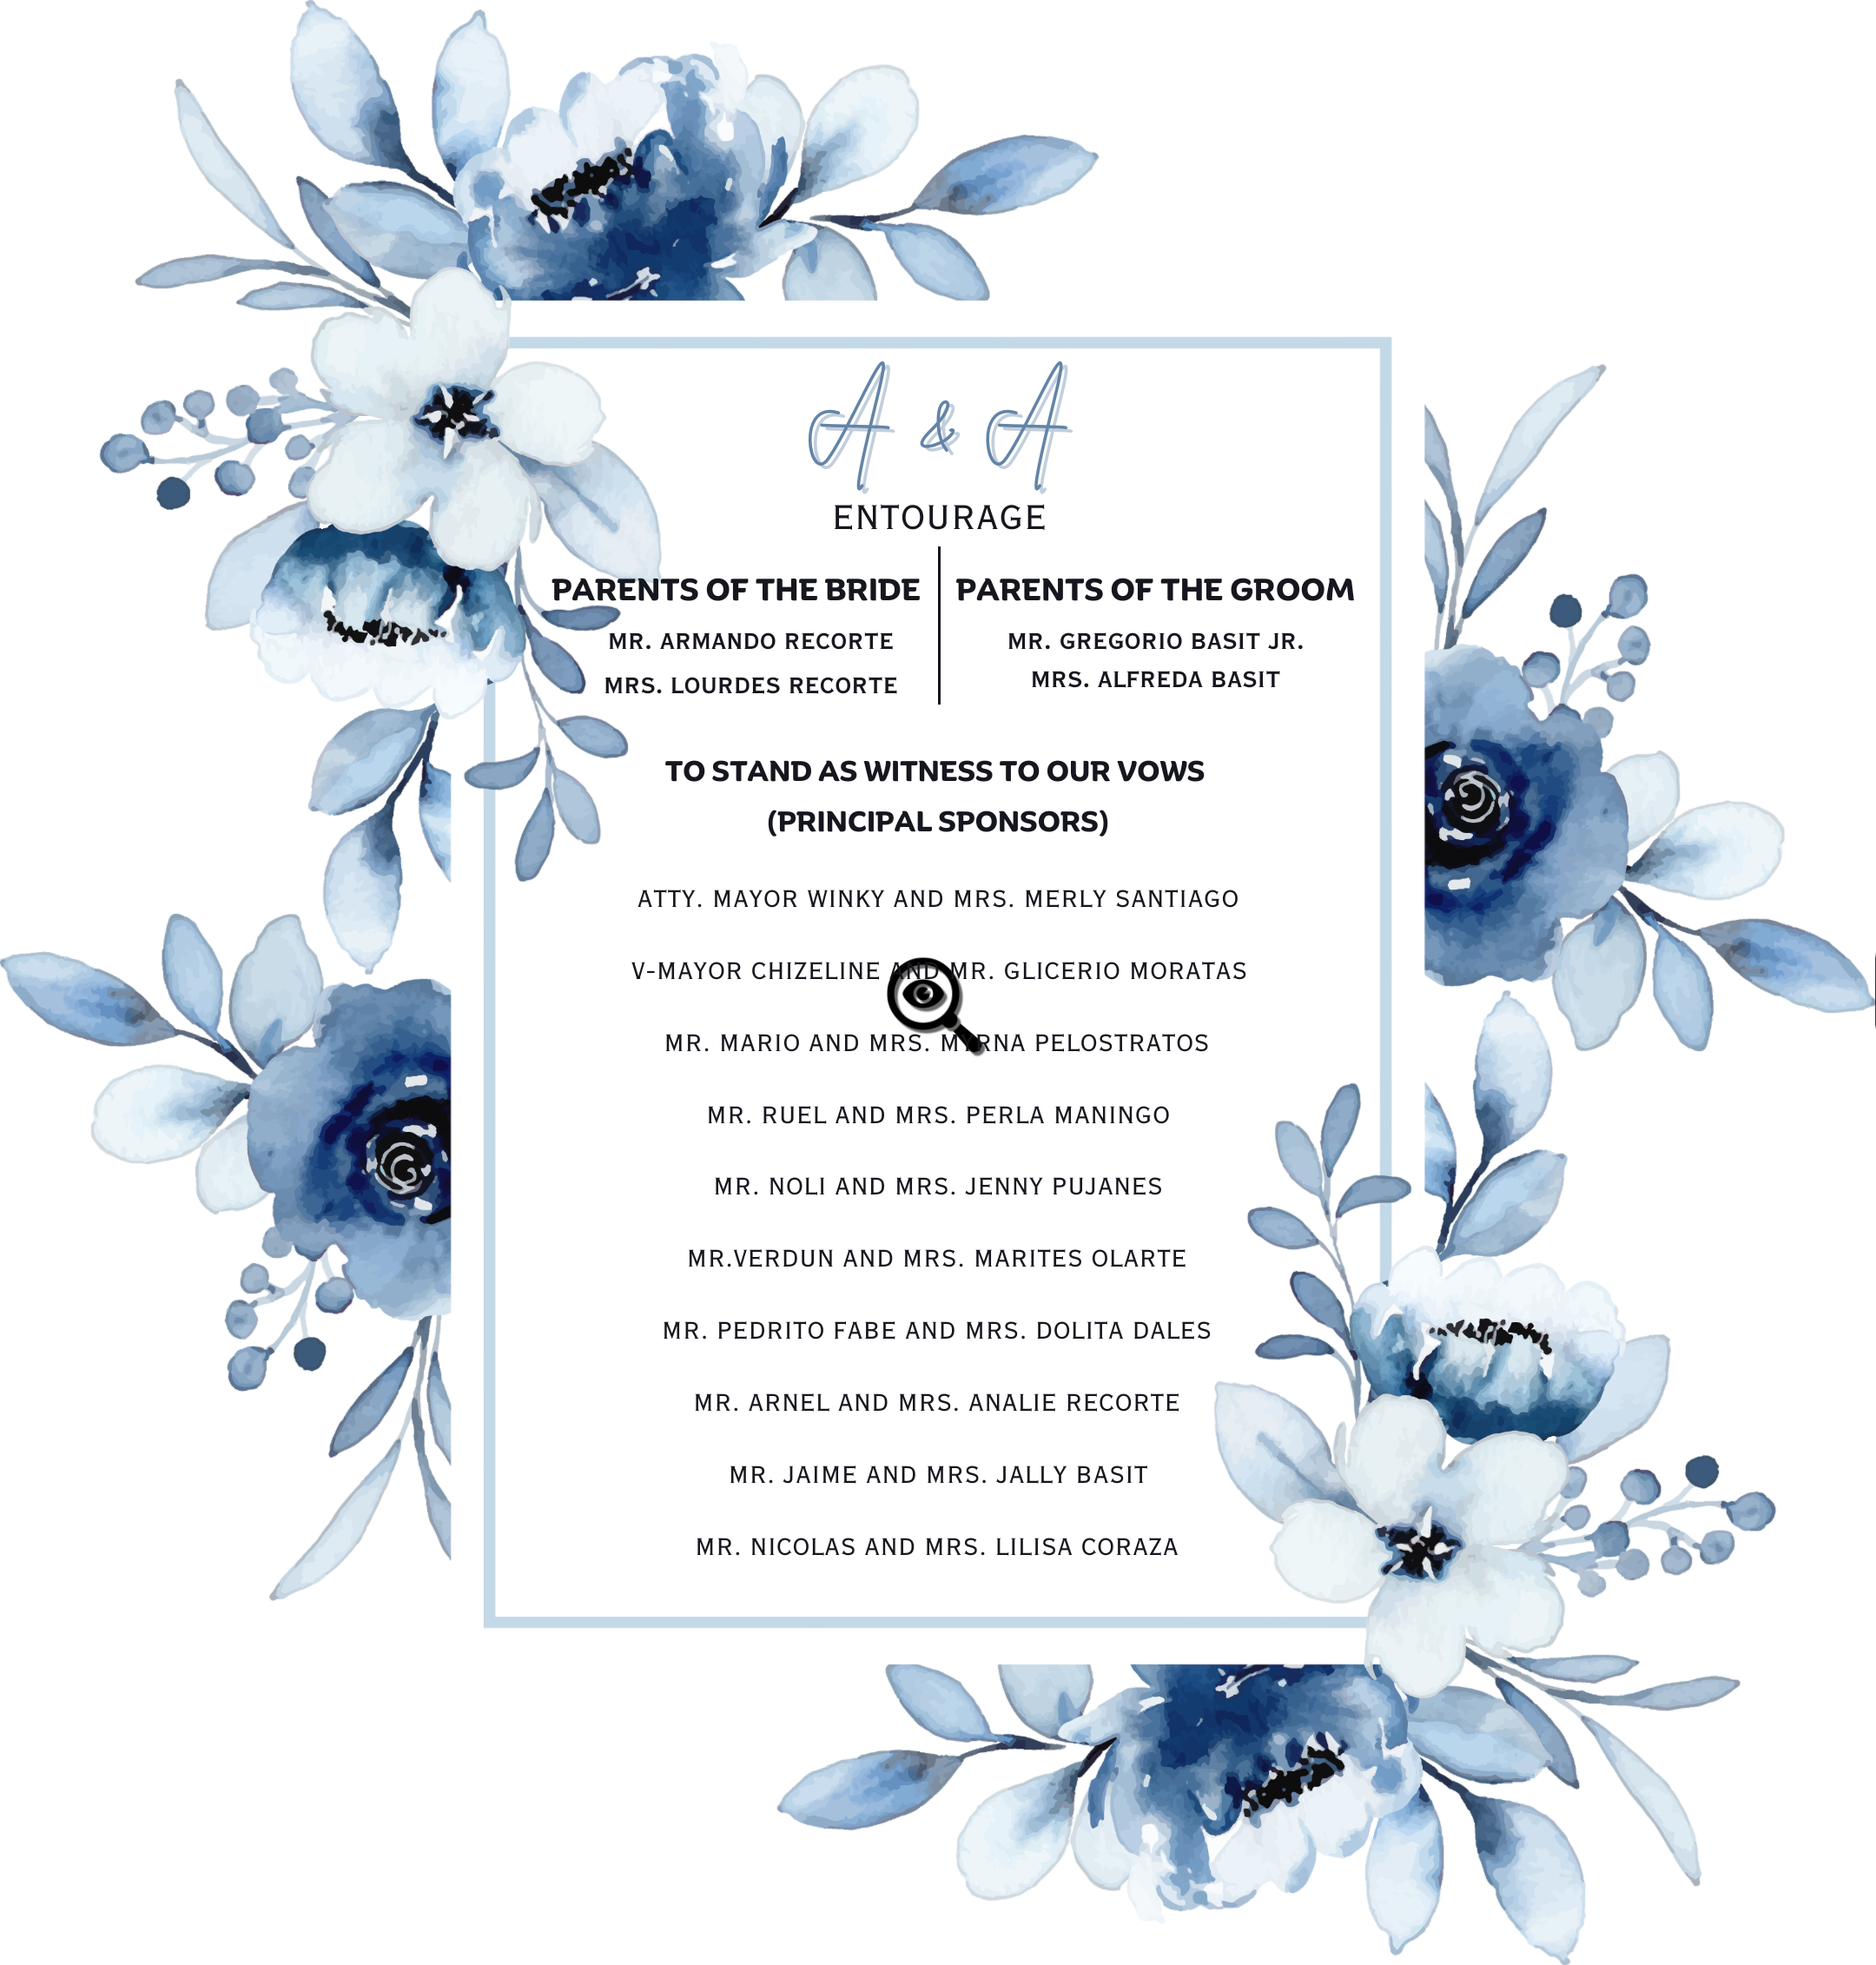
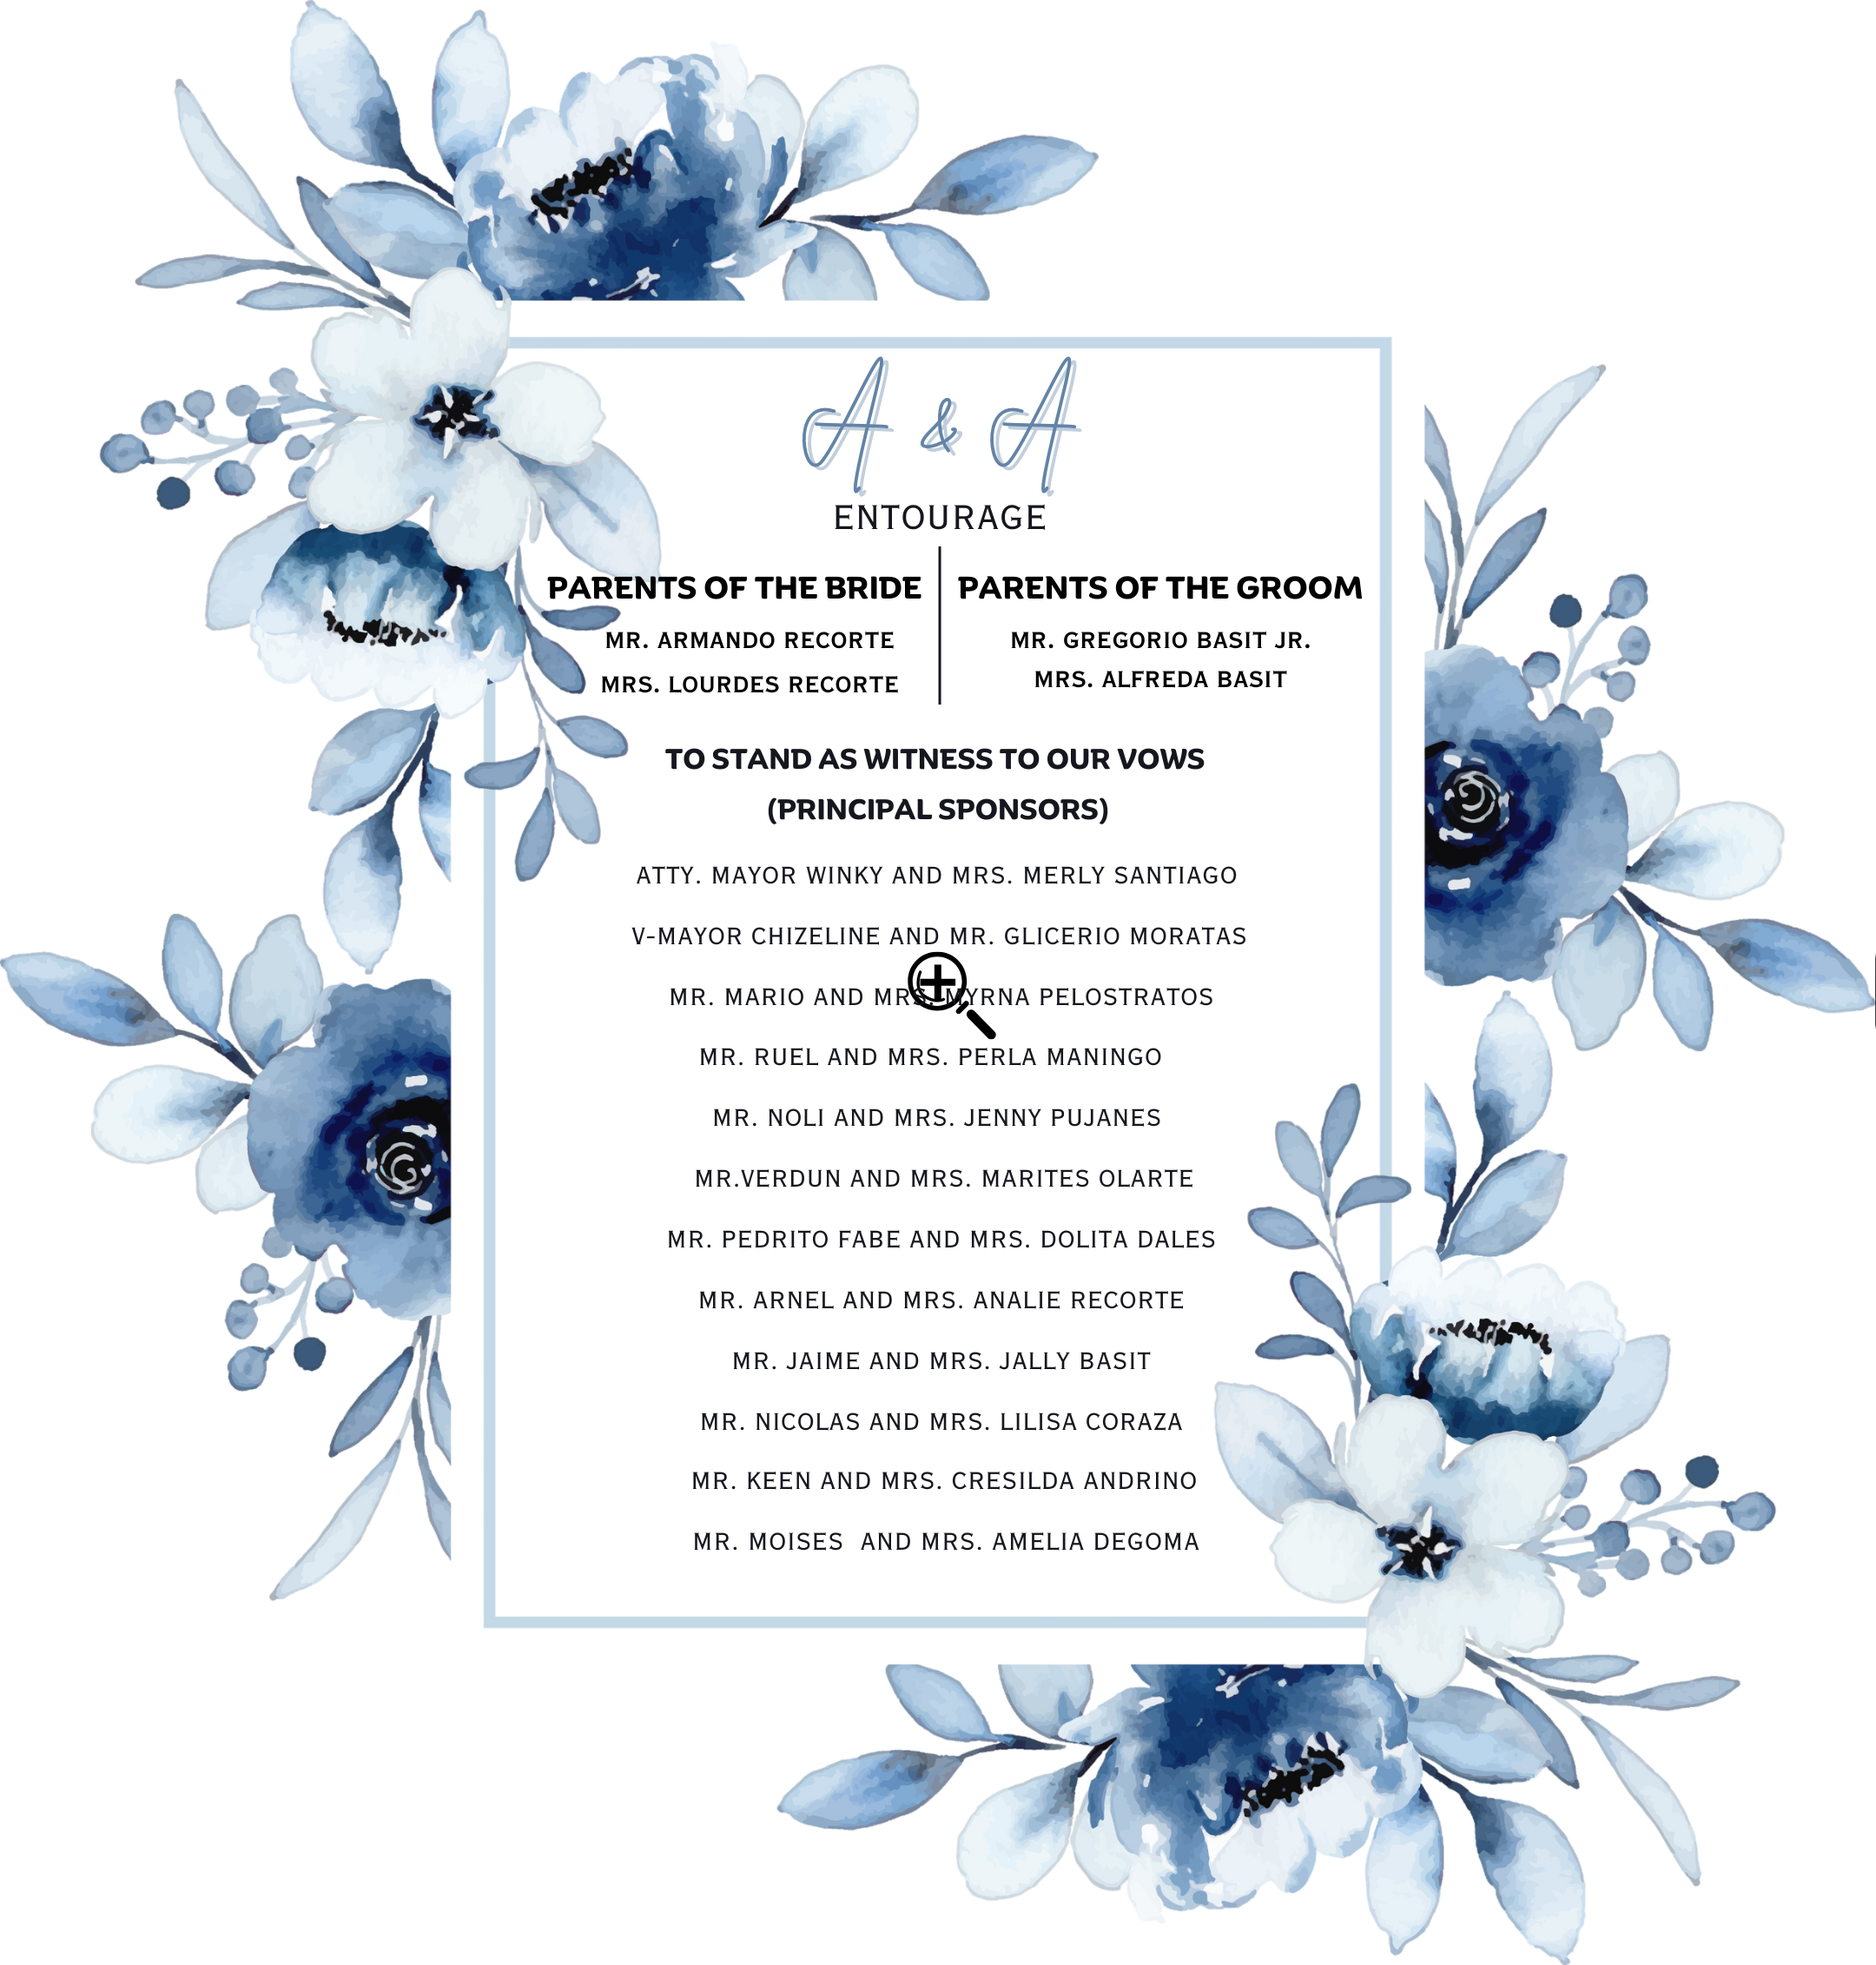
replacing entourage image

Changed region(s): [[0.2792, 0.2785, 0.7444, 0.8046], [0.4963, 0.1857, 0.5894, 0.2476], [0.4343, 0.1857, 0.4963, 0.2476]]

diff --git a/home.html b/home.html
@@ -221,11 +221,11 @@
               <img src="./resources/images/entourage1.png" alt="" />
             </a>
             <a
-              href="./resources/images/entourage1large.png"
+              href="./resources/images/entourage2large.png"
               class="glightbox entourage__img img-2"
               data-gallery="gallery1"
             >
-              <img src="./resources/images/entourage1.png" alt="" />
+              <img src="./resources/images/entourage2.png" alt="" />
             </a>
           </div>
         </div>
